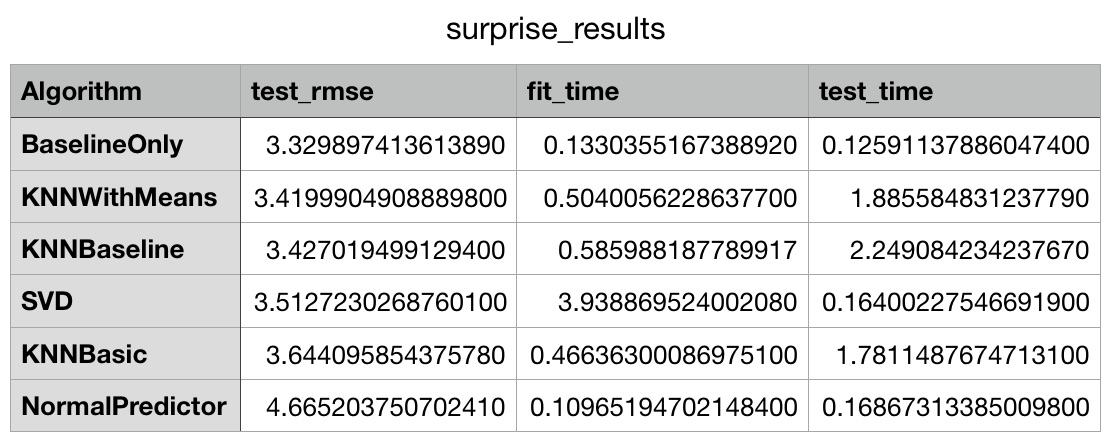
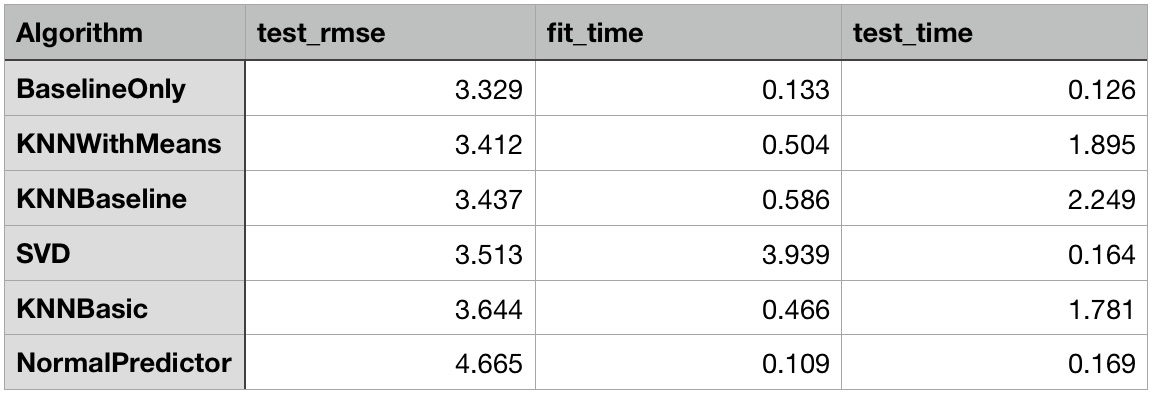
polished

diff --git a/README.md b/README.md
@@ -80,17 +80,27 @@ In the case of a brand new user with no prior information on their preference, w
 
 ### Pearson R
 
-Modeling began with Pearson correlation as a basic form of model, allowing us to recommend the top 10 most rated books as well as pick out those that are strongly correlated to a book of choice based on ISBN. The Pearson R model is [here.](https://github.com/mpayumo/book-recommender-model/tree/master/model)
+We use Pearson correlation as a basic form of model, allowing us to pick out those that are strongly correlated to a book of choice based on the book's ISBN code. The Pearson R model is [here.](https://github.com/mpayumo/book-recommender-model/tree/master/model) Below is a sample of recommended books on a randomly chosen ISBN code, <code>0316666343</code>.
 
-<p align = "center"><img src = "img/mostrated15.jpg"></p>
+<p align = "center"><img src = "img/pearson-correlated-titles.jpg"></p>
 
-### Algorithms
+### Best Estimator with Surprise
 
-This recommender system is based on heavy use of the **Surprise** package that allowed us to iterate and cross-validate through different algortihms as shown below. Cross-validation was set to **5 folds** and utilized the **root mean squared error (RMSE)** as our **evaluation metric** to determine which algorithm will give us the best predictions. The iteration is shown on the table below.
+The more nuanced modeling process is based on heavy use of the **Surprise** package that allowed us to iterate and cross-validate through different algorithms as shown below. Cross-validation was set to **5 folds** and utilized the **root mean squared error (RMSE)** as our **evaluation metric** to determine which algorithm will give us the best predictions. The iteration is shown on the table below.
+
+Before moving further, here is a comparison of the RMSE scores. BaselineOnly algorithm gave us the lower score that we can be comfortable with using for now.
+
+| RMSE (Baseline) | RMSE (Best Estimator) |
+| :----:          | :----:                |
+| 3.597           | 3.3298                |
+
+Below is the cross validation and iteration through various algorithms with RMSE as an evaluation metric similarly utilized to determine which will be our best estimator.
 
 <p align = "center"><img src = "img/surprise_results.jpg"></p>
 
-BaselineOnly becomes our algorithm of choice as it shows the most promise with the lowest RMSE of <code>3.329897413613890</code>. We then set our top N recommended books to 3, but the model is flexible to recommend as many as there are in the predictions. The top 3 book titles are recommended for our top 5 random users as shown below.
+BaselineOnly becomes our algorithm of choice as it shows the most promise with the lowest RMSE of <code>3.3298</code>. We then set our top N recommended books to 3, but the model is flexible to recommend as many as there are in the predictions.
+
+The top 3 book titles are recommended for our top 5 random users as shown below.
 <br>
 <br>
 <p align = "center"><img src = "img/top3_books.jpg"></p>
@@ -100,7 +110,7 @@ BaselineOnly becomes our algorithm of choice as it shows the most promise with t
 The model will further benefit from the following for improvement and more accurate results:
 
 <ul>
+    <li>Tuning best estimator with GridSearchCV</li>
     <li>Deep Learning</li>
-    <li>Fusion with Flask </li>
-    <li>Additional data</li>
+    <li>Flask Integration</li>
 </ul>
